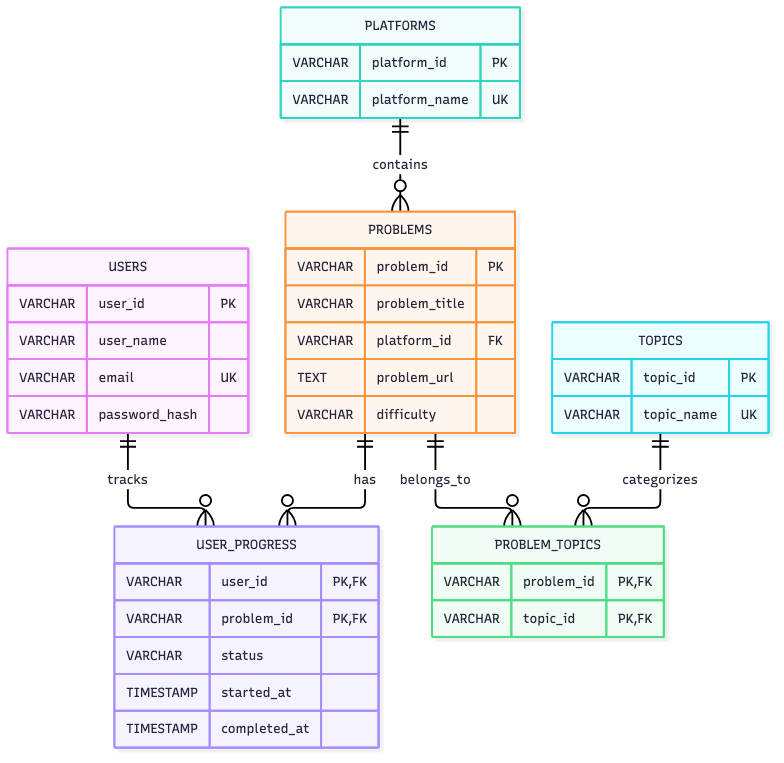
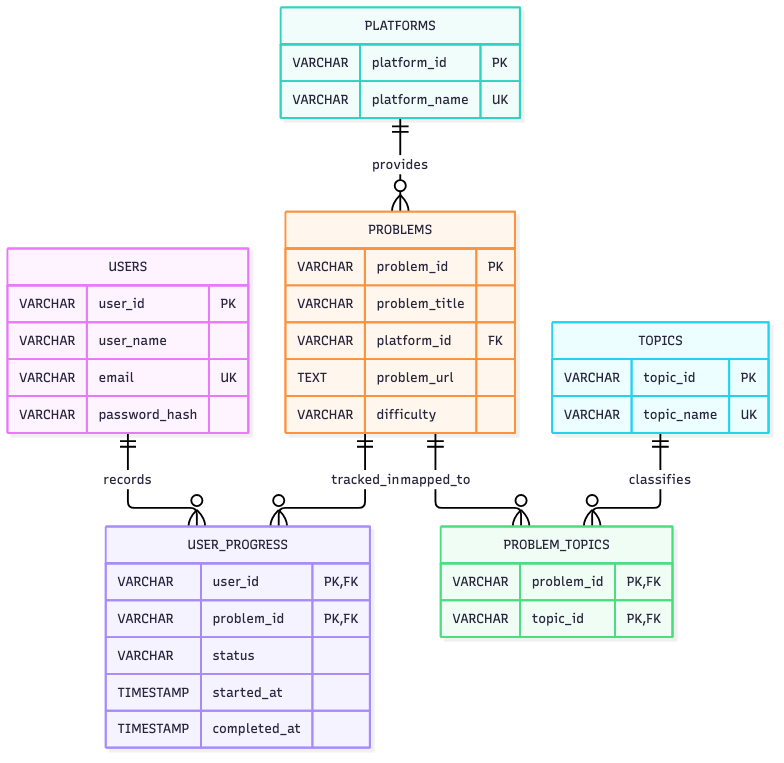
Rebuild ER diagram documentation and image

diff --git a/dbms/02_er_diagram.md b/dbms/02_er_diagram.md
@@ -1,53 +1,22 @@
-# Entity Relationship Diagram (ERD)
-## Nova Placement Preparation Platform
+# Nova Placement Preparation Platform - ER Diagram
 
-This document describes the database entities, attributes, primary keys,
-foreign keys, and relationships used in the Nova Placement Preparation Platform.
+## Entities
+- USERS: user_id (PK), user_name, email (UNIQUE), password_hash.
+- PLATFORMS: platform_id (PK), platform_name (UNIQUE).
+- PROBLEMS: problem_id (PK), problem_title, platform_id (FK), problem_url, difficulty.
+- TOPICS: topic_id (PK), topic_name (UNIQUE).
+- PROBLEM_TOPICS: composite primary key (problem_id, topic_id).
+- USER_PROGRESS: composite primary key (user_id, problem_id).
 
-## 1. ER Diagram
+## Relationships
+1. One platform provides many problems.
+2. One user can have many progress records.
+3. One problem can appear in many progress records.
+4. Problems and topics have a many-to-many relationship through PROBLEM_TOPICS.
 
-```mermaid
-erDiagram
-    USERS {
-        VARCHAR user_id PK
-        VARCHAR user_name
-        VARCHAR email UK
-        VARCHAR password_hash
-    }
-
-    PLATFORMS {
-        VARCHAR platform_id PK
-        VARCHAR platform_name UK
-    }
-
-    PROBLEMS {
-        VARCHAR problem_id PK
-        VARCHAR problem_title
-        VARCHAR platform_id FK
-        TEXT problem_url
-        VARCHAR difficulty
-    }
-
-    TOPICS {
-        VARCHAR topic_id PK
-        VARCHAR topic_name UK
-    }
-
-    PROBLEM_TOPICS {
-        VARCHAR problem_id PK, FK
-        VARCHAR topic_id PK, FK
-    }
-
-    USER_PROGRESS {
-        VARCHAR user_id PK, FK
-        VARCHAR problem_id PK, FK
-        VARCHAR status
-        TIMESTAMP started_at
-        TIMESTAMP completed_at
-    }
-
-    PLATFORMS ||--o{ PROBLEMS : contains
-    USERS ||--o{ USER_PROGRESS : tracks
-    PROBLEMS ||--o{ USER_PROGRESS : has
-    PROBLEMS ||--o{ PROBLEM_TOPICS : belongs_to
-    TOPICS ||--o{ PROBLEM_TOPICS : categorizes
+## Constraints
+- Email, platform_name, and topic_name are unique.
+- Difficulty: Easy, Medium, Hard.
+- Status: Pending, Attempted, Solved.
+- Junction table foreign keys use ON DELETE CASCADE.
+- Refer to 03_schema.sql for complete definitions.
